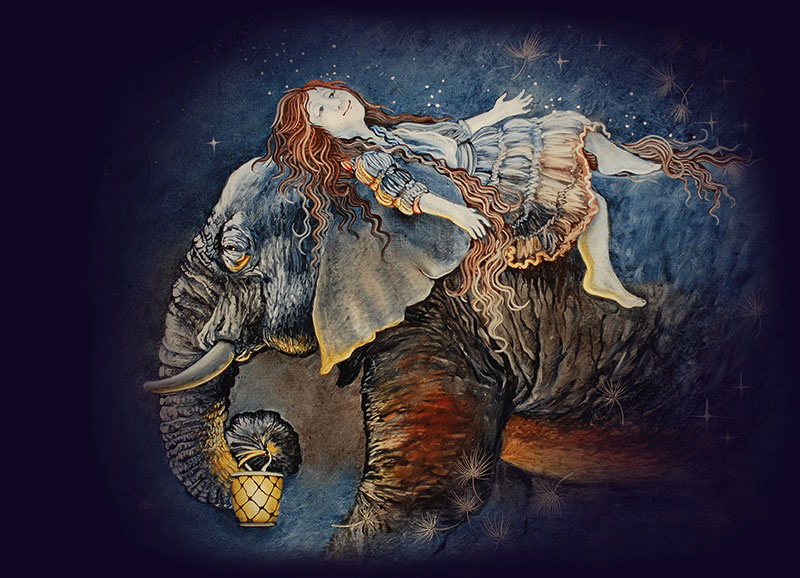
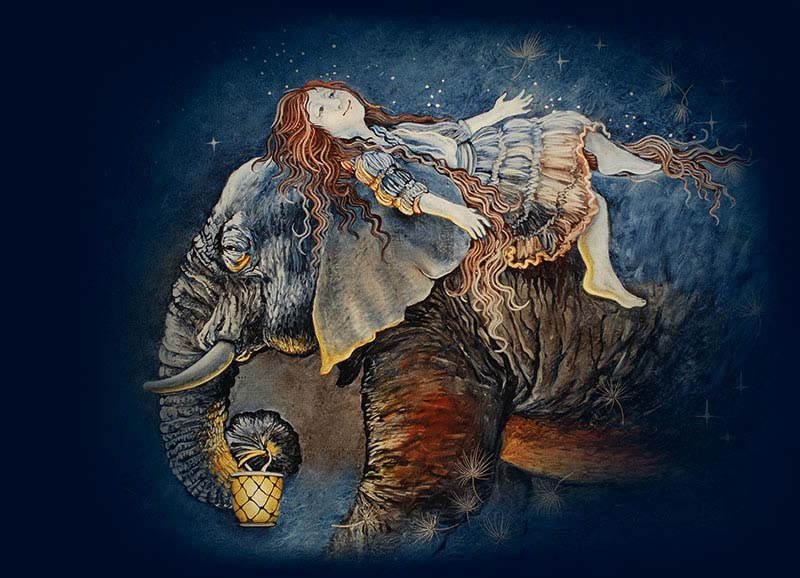
replace backgrounds 000c25

diff --git a/app/assets/stylesheets/layout.sass b/app/assets/stylesheets/layout.sass
@@ -8,7 +8,7 @@
 body
   padding: 0
   margin: 0
-  background-color: #120823
+  background-color: #000c25
   color: white
   font-family: Arial
   position: relative
